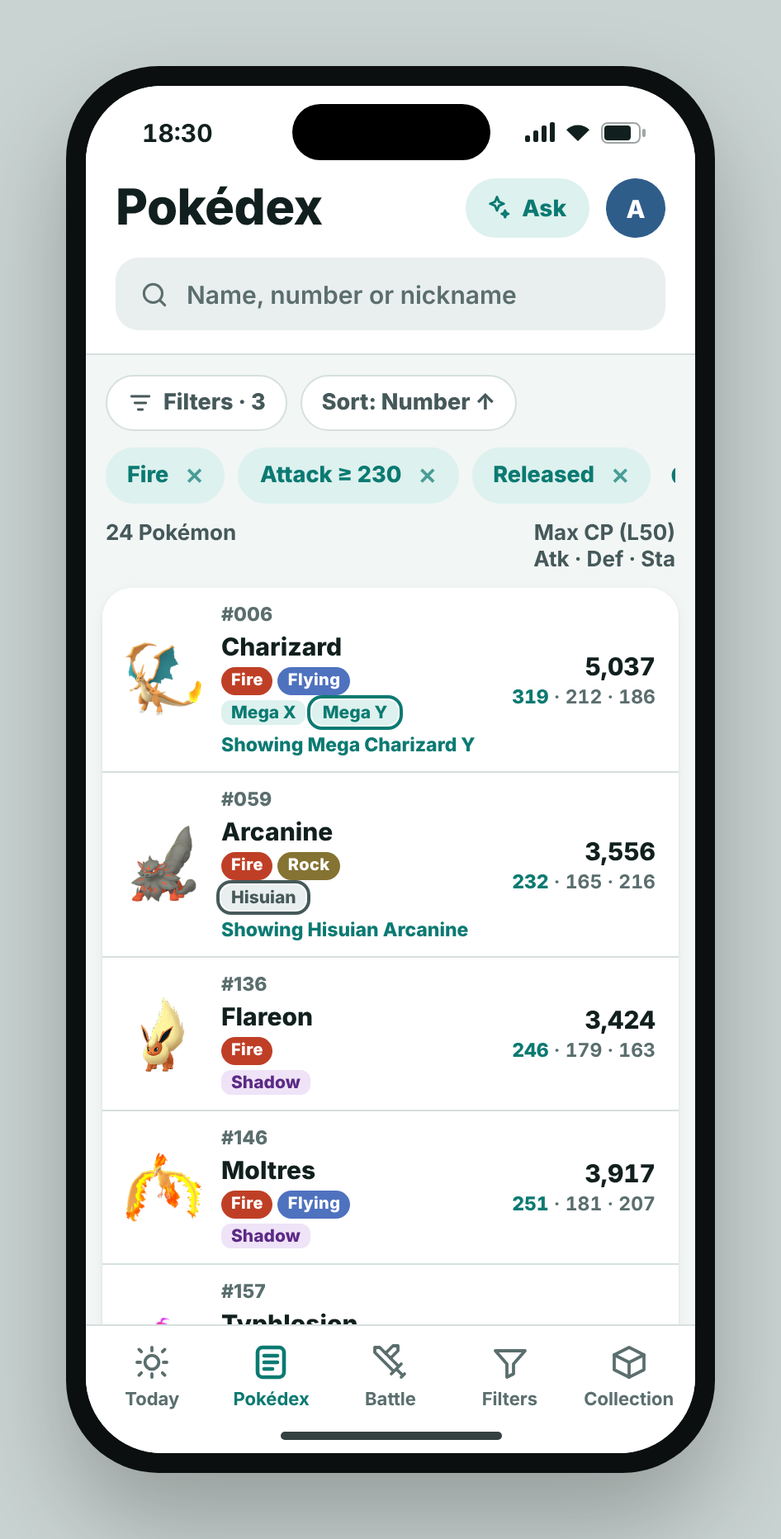
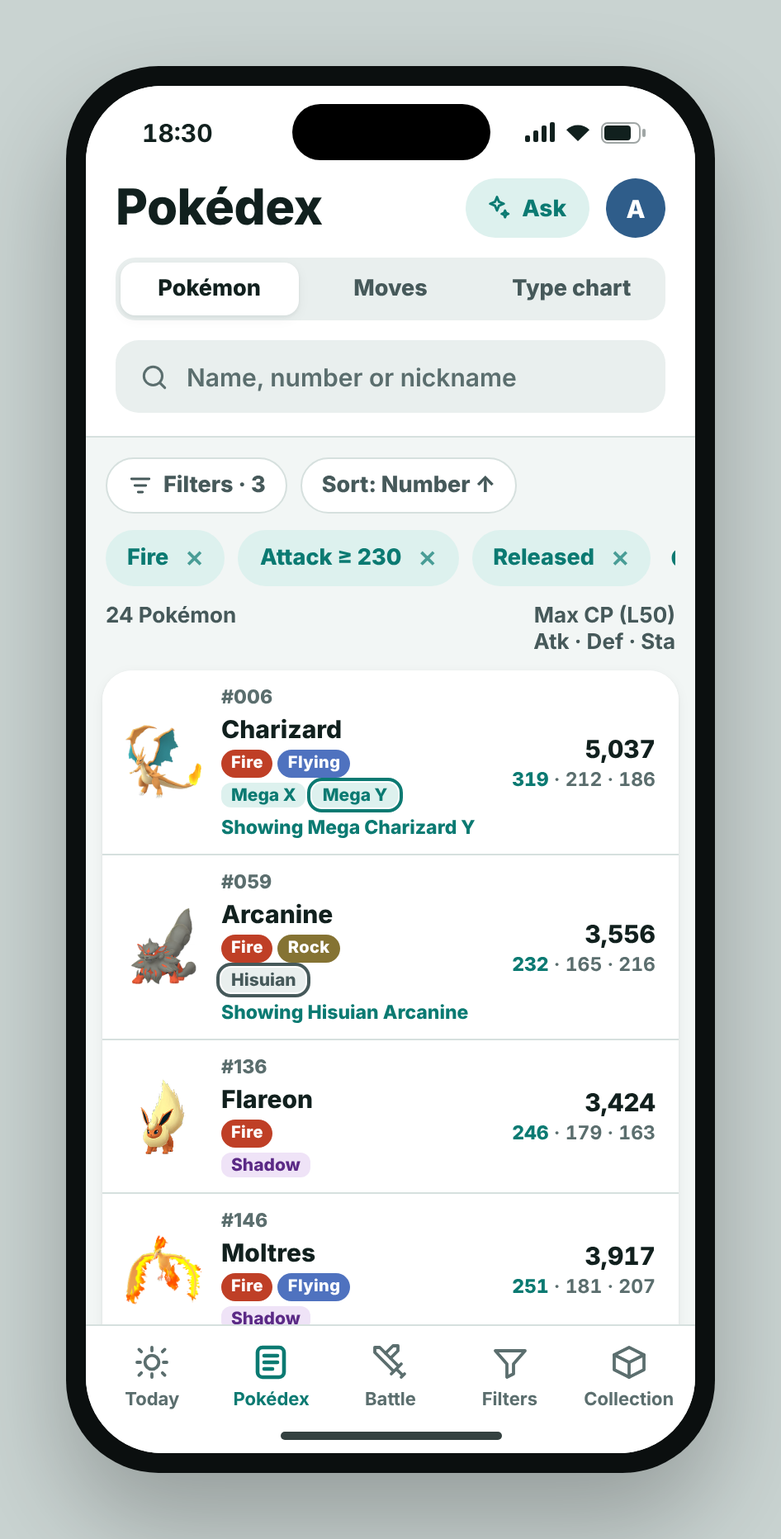
Design: B4 Move page for review; Pokédex tab switcher on B1; log B3 approval
Claude-Session: https://claude.ai/code/session_014PLsCiJiJmtsciFeh9tQXY

diff --git a/design/source/screens/B4-desktop.html b/design/source/screens/B4-desktop.html
@@ -1,0 +1,10 @@
+<!doctype html><html lang="en"><head><meta charset="utf-8"><title>B4 Move page</title><link rel="stylesheet" href="../base.css"><link rel="stylesheet" href="_b1.css"><link rel="stylesheet" href="_b4.css"></head><body><div class="desktop"><div data-sidebar="moves"></div><div class="main"><div data-topbar></div>
+<div class="content" style="max-width:1180px;display:flex;flex-direction:column;gap:18px">
+<a class="backlink">‹ Moves</a><div style="display:flex;flex-direction:column;gap:6px;margin-top:-6px"><h1 class="bigtitle">Earth Power</h1><div class="mhead" style="padding:0;background:none;border:0"><div class="meta"><span class="type ground">Ground</span>Charged move</div></div></div>
+<div style="display:grid;grid-template-columns:1fr 1fr;gap:16px"><div class="card ncard"><h3>Raids &amp; gyms</h3><div class="nums"><div><span>Power</span><b>100</b></div><div><span>Time</span><b>3.5 s</b></div><div><span>Energy</span><b>−50</b></div></div>
+<div class="ebar"><i></i><i></i><span style="margin-left:6px">2 bars</span></div></div>
+<div class="card ncard"><h3>PvP (trainer battles)</h3><div class="nums"><div><span>Power</span><b>90</b></div><div><span>Energy</span><b>−50</b></div><div><span>Turns</span><b>1</b></div></div>
+<div class="effect">Effect: <b>10% chance</b> to lower the opponent's Defense by 1</div></div></div>
+<h2 style="margin:8px 0 0;font-size:20px">Who learns it</h2><div class="card" style="overflow:hidden"><div class="grph"><b>Elite TM only</b><span>2 Pokémon</span></div><div class="note"><svg width="16" height="16" viewBox="0 0 24 24" fill="none" stroke="currentColor" stroke-width="2.2" stroke-linecap="round"><rect x="3" y="5" width="18" height="16" rx="3"/><path d="M3 10h18M8 3v4M16 3v4"/></svg><span>Free during <b>Community Day: Gible</b> — evolve Gabite Sat 7 Nov, 14:00–22:00</span></div><div class="lgrid"><div class="lr"><img class="sprite" src="../sprites/445.png" width="38" height="38" alt=""><div class="nm"><b>Garchomp</b><span class="tt"><span class="type dragon">Dragon</span><span class="type ground">Ground</span><span class="ver mega">Mega too</span></span></div><div class="atk">261<span>ATTACK</span></div></div><div class="lr"><img class="sprite" src="../sprites/330.png" width="38" height="38" alt=""><div class="nm"><b>Flygon</b><span class="tt"><span class="type ground">Ground</span><span class="type dragon">Dragon</span></span></div><div class="atk">205<span>ATTACK</span></div></div></div></div>
+<div class="card" style="overflow:hidden"><div class="grph" style="padding-bottom:12px"><b>Legacy</b><span>none</span></div></div>
+<div class="card" style="overflow:hidden"><div class="grph"><b>Can learn it</b><span>26 Pokémon · with a Charged TM</span></div><div class="lgrid"><div class="lr"><img class="sprite" src="../sprites/645_11.png" width="38" height="38" alt=""><div class="nm"><b>Landorus</b><span class="tt"><span class="type ground">Ground</span><span class="type flying">Flying</span></span></div><div class="atk">261<span>ATTACK</span></div></div><div class="lr"><img class="sprite" src="../sprites/721.png" width="38" height="38" alt=""><div class="nm"><b>Volcanion</b><span class="tt"><span class="type fire">Fire</span><span class="type water">Water</span></span></div><div class="atk">252<span>ATTACK</span></div></div><div class="lr"><img class="sprite" src="../sprites/485.png" width="38" height="38" alt=""><div class="nm"><b>Heatran</b><span class="tt"><span class="type fire">Fire</span><span class="type steel">Steel</span></span></div><div class="atk">251<span>ATTACK</span></div></div><div class="lr"><img class="sprite" src="../sprites/905_THERIAN.png" width="38" height="38" alt=""><div class="nm"><b>Enamorus (Therian)</b><span class="tt"><span class="type fairy">Fairy</span><span class="type flying">Flying</span></span></div><div class="atk">250<span>ATTACK</span></div></div><div class="lr"><img class="sprite" src="../sprites/812.png" width="38" height="38" alt=""><div class="nm"><b>Rillaboom</b><span class="tt"><span class="type grass">Grass</span></span></div><div class="atk">239<span>ATTACK</span></div></div><div class="lr"><img class="sprite" src="../sprites/623.png" width="38" height="38" alt=""><div class="nm"><b>Golurk</b><span class="tt"><span class="type ground">Ground</span><span class="type ghost">Ghost</span></span></div><div class="atk">222<span>ATTACK</span></div></div><div class="lr"><img class="sprite" src="../sprites/142.png" width="38" height="38" alt=""><div class="nm"><b>Aerodactyl</b><span class="tt"><span class="type rock">Rock</span><span class="type flying">Flying</span><span class="ver mega">Mega too</span></span></div><div class="atk">221<span>ATTACK</span></div></div><div class="lr"><img class="sprite" src="../sprites/930.png" width="38" height="38" alt=""><div class="nm"><b>Arboliva</b><span class="tt"><span class="type grass">Grass</span><span class="type normal">Normal</span></span></div><div class="atk">219<span>ATTACK</span></div></div><div class="lr"><img class="sprite" src="../sprites/034.png" width="38" height="38" alt=""><div class="nm"><b>Nidoking</b><span class="tt"><span class="type poison">Poison</span><span class="type ground">Ground</span></span></div><div class="atk">204<span>ATTACK</span></div></div><div class="lr"><img class="sprite" src="../sprites/844.png" width="38" height="38" alt=""><div class="nm"><b>Sandaconda</b><span class="tt"><span class="type ground">Ground</span></span></div><div class="atk">202<span>ATTACK</span></div></div><div class="lr"><img class="sprite" src="../sprites/450.png" width="38" height="38" alt=""><div class="nm"><b>Hippowdon</b><span class="tt"><span class="type ground">Ground</span></span></div><div class="atk">201<span>ATTACK</span></div></div><div class="lr"><img class="sprite" src="../sprites/323.png" width="38" height="38" alt=""><div class="nm"><b>Camerupt</b><span class="tt"><span class="type fire">Fire</span><span class="type ground">Ground</span><span class="ver mega">Mega too</span></span></div><div class="atk">194<span>ATTACK</span></div></div><div class="lr"><img class="sprite" src="../sprites/249.png" width="38" height="38" alt=""><div class="nm"><b>Lugia</b><span class="tt"><span class="type psychic">Psychic</span><span class="type flying">Flying</span></span></div><div class="atk">193<span>ATTACK</span></div></div><div class="lr"><img class="sprite" src="../sprites/537.png" width="38" height="38" alt=""><div class="nm"><b>Seismitoad</b><span class="tt"><span class="type water">Water</span><span class="type ground">Ground</span></span></div><div class="atk">188<span>ATTACK</span></div></div><div class="lr"><img class="sprite" src="../sprites/031.png" width="38" height="38" alt=""><div class="nm"><b>Nidoqueen</b><span class="tt"><span class="type poison">Poison</span><span class="type ground">Ground</span></span></div><div class="atk">180<span>ATTACK</span></div></div><div class="lr"><img class="sprite" src="../sprites/770.png" width="38" height="38" alt=""><div class="nm"><b>Palossand</b><span class="tt"><span class="type ghost">Ghost</span><span class="type ground">Ground</span></span></div><div class="atk">178<span>ATTACK</span></div></div><div class="lr"><img class="sprite" src="../sprites/423_11.png" width="38" height="38" alt=""><div class="nm"><b>Gastrodon</b><span class="tt"><span class="type water">Water</span><span class="type ground">Ground</span></span></div><div class="atk">169<span>ATTACK</span></div></div><div class="lr"><img class="sprite" src="../sprites/949.png" width="38" height="38" alt=""><div class="nm"><b>Toedscruel</b><span class="tt"><span class="type ground">Ground</span><span class="type grass">Grass</span></span></div><div class="atk">166<span>ATTACK</span></div></div><div class="lr"><img class="sprite" src="../sprites/344.png" width="38" height="38" alt=""><div class="nm"><b>Claydol</b><span class="tt"><span class="type ground">Ground</span><span class="type psychic">Psychic</span></span></div><div class="atk">140<span>ATTACK</span></div></div><div class="lr"><img class="sprite" src="../sprites/929.png" width="38" height="38" alt=""><div class="nm"><b>Dolliv</b><span class="tt"><span class="type grass">Grass</span><span class="type normal">Normal</span></span></div><div class="atk">137<span>ATTACK</span></div></div><div class="lr"><img class="sprite" src="../sprites/536.png" width="38" height="38" alt=""><div class="nm"><b>Palpitoad</b><span class="tt"><span class="type water">Water</span><span class="type ground">Ground</span></span></div><div class="atk">128<span>ATTACK</span></div></div><div class="lr"><img class="sprite" src="../sprites/769.png" width="38" height="38" alt=""><div class="nm"><b>Sandygast</b><span class="tt"><span class="type ghost">Ghost</span><span class="type ground">Ground</span></span></div><div class="atk">120<span>ATTACK</span></div></div><div class="lr"><img class="sprite" src="../sprites/843.png" width="38" height="38" alt=""><div class="nm"><b>Silicobra</b><span class="tt"><span class="type ground">Ground</span></span></div><div class="atk">103<span>ATTACK</span></div></div><div class="lr"><img class="sprite" src="../sprites/928.png" width="38" height="38" alt=""><div class="nm"><b>Smoliv</b><span class="tt"><span class="type grass">Grass</span><span class="type normal">Normal</span></span></div><div class="atk">100<span>ATTACK</span></div></div><div class="lr"><img class="sprite" src="../sprites/948.png" width="38" height="38" alt=""><div class="nm"><b>Toedscool</b><span class="tt"><span class="type ground">Ground</span><span class="type grass">Grass</span></span></div><div class="atk">97<span>ATTACK</span></div></div><div class="lr"><img class="sprite" src="../sprites/235.png" width="38" height="38" alt=""><div class="nm"><b>Smeargle</b><span class="tt"><span class="type normal">Normal</span></span></div><div class="atk">40<span>ATTACK</span></div></div></div></div></div></div></div><script src="../chrome.js"></script></body></html>

diff --git a/design/source/screens/B4-phone.html b/design/source/screens/B4-phone.html
@@ -1,0 +1,9 @@
+<!doctype html><html lang="en"><head><meta charset="utf-8"><title>B4 Move page</title><link rel="stylesheet" href="../base.css"><link rel="stylesheet" href="_b1.css"><link rel="stylesheet" href="_b4.css"></head><body><div class="stage"><div class="device"><div class="screen"><div data-statusbar></div><div data-dethead="Moves|"></div><div class="mhead"><h1>Earth Power</h1><div class="meta"><span class="type ground">Ground</span>Charged move</div></div>
+<div class="scroll"><div style="padding:14px 12px 20px;display:flex;flex-direction:column;gap:12px"><div class="card ncard"><h3>Raids &amp; gyms</h3><div class="nums"><div><span>Power</span><b>100</b></div><div><span>Time</span><b>3.5 s</b></div><div><span>Energy</span><b>−50</b></div></div>
+<div class="ebar"><i></i><i></i><span style="margin-left:6px">2 bars</span></div></div>
+<div class="card ncard"><h3>PvP (trainer battles)</h3><div class="nums"><div><span>Power</span><b>90</b></div><div><span>Energy</span><b>−50</b></div><div><span>Turns</span><b>1</b></div></div>
+<div class="effect">Effect: <b>10% chance</b> to lower the opponent's Defense by 1</div></div>
+<h2 style="margin:10px 4px 0;font-size:18px">Who learns it</h2><div class="card" style="overflow:hidden"><div class="grph"><b>Elite TM only</b><span>2 Pokémon</span></div><div class="note"><svg width="16" height="16" viewBox="0 0 24 24" fill="none" stroke="currentColor" stroke-width="2.2" stroke-linecap="round"><rect x="3" y="5" width="18" height="16" rx="3"/><path d="M3 10h18M8 3v4M16 3v4"/></svg><span>Free during <b>Community Day: Gible</b> — evolve Gabite Sat 7 Nov, 14:00–22:00</span></div><div class="lr"><img class="sprite" src="../sprites/445.png" width="38" height="38" alt=""><div class="nm"><b>Garchomp</b><span class="tt"><span class="type dragon">Dragon</span><span class="type ground">Ground</span><span class="ver mega">Mega too</span></span></div><div class="atk">261<span>ATTACK</span></div></div><div class="lr"><img class="sprite" src="../sprites/330.png" width="38" height="38" alt=""><div class="nm"><b>Flygon</b><span class="tt"><span class="type ground">Ground</span><span class="type dragon">Dragon</span></span></div><div class="atk">205<span>ATTACK</span></div></div></div>
+<div class="card" style="overflow:hidden"><div class="grph" style="padding-bottom:12px"><b>Legacy</b><span>none</span></div></div>
+<div class="card" style="overflow:hidden"><div class="grph"><b>Can learn it</b><span>26 Pokémon · with a Charged TM</span></div><div class="lr"><img class="sprite" src="../sprites/645_11.png" width="38" height="38" alt=""><div class="nm"><b>Landorus</b><span class="tt"><span class="type ground">Ground</span><span class="type flying">Flying</span></span></div><div class="atk">261<span>ATTACK</span></div></div><div class="lr"><img class="sprite" src="../sprites/721.png" width="38" height="38" alt=""><div class="nm"><b>Volcanion</b><span class="tt"><span class="type fire">Fire</span><span class="type water">Water</span></span></div><div class="atk">252<span>ATTACK</span></div></div><div class="lr"><img class="sprite" src="../sprites/485.png" width="38" height="38" alt=""><div class="nm"><b>Heatran</b><span class="tt"><span class="type fire">Fire</span><span class="type steel">Steel</span></span></div><div class="atk">251<span>ATTACK</span></div></div><div class="lr"><img class="sprite" src="../sprites/905_THERIAN.png" width="38" height="38" alt=""><div class="nm"><b>Enamorus (Therian)</b><span class="tt"><span class="type fairy">Fairy</span><span class="type flying">Flying</span></span></div><div class="atk">250<span>ATTACK</span></div></div><div class="lr"><img class="sprite" src="../sprites/812.png" width="38" height="38" alt=""><div class="nm"><b>Rillaboom</b><span class="tt"><span class="type grass">Grass</span></span></div><div class="atk">239<span>ATTACK</span></div></div><div class="lr"><img class="sprite" src="../sprites/623.png" width="38" height="38" alt=""><div class="nm"><b>Golurk</b><span class="tt"><span class="type ground">Ground</span><span class="type ghost">Ghost</span></span></div><div class="atk">222<span>ATTACK</span></div></div><div class="lr"><img class="sprite" src="../sprites/142.png" width="38" height="38" alt=""><div class="nm"><b>Aerodactyl</b><span class="tt"><span class="type rock">Rock</span><span class="type flying">Flying</span><span class="ver mega">Mega too</span></span></div><div class="atk">221<span>ATTACK</span></div></div><div class="lr"><img class="sprite" src="../sprites/930.png" width="38" height="38" alt=""><div class="nm"><b>Arboliva</b><span class="tt"><span class="type grass">Grass</span><span class="type normal">Normal</span></span></div><div class="atk">219<span>ATTACK</span></div></div><div style="border-top:1px solid var(--line);padding:12px 16px;text-align:center;font-weight:800;color:var(--accent);font-size:14.5px">Show all 26 ›</div></div></div></div>
+<div data-tabbar="pokedex"></div></div></div></div><script src="../chrome.js"></script></body></html>

diff --git a/design/source/screens/_b4.css b/design/source/screens/_b4.css
@@ -1,0 +1,28 @@
+.mhead { background: var(--surface); padding: 6px 18px 16px; border-bottom: 1px solid var(--line); display: flex; flex-direction: column; gap: 6px; }
+.mhead h1 { margin: 0; font-size: 28px; font-weight: 800; }
+.mhead .meta { display: flex; gap: 8px; align-items: center; font-size: 13.5px; font-weight: 700; color: var(--text-2); }
+.mhead .type { height: 24px; font-size: 12.5px; padding: 0 10px; }
+.nums { display: grid; grid-template-columns: repeat(3, minmax(0, 1fr)); gap: 8px; }
+.nums div { background: var(--surface-2); border-radius: 12px; padding: 8px 10px; display: flex; flex-direction: column; }
+.nums span { font-size: 11.5px; color: var(--text-2); font-weight: 800; }
+.nums b { font-size: 19px; font-variant-numeric: tabular-nums; }
+.ncard { padding: 14px 16px; display: flex; flex-direction: column; gap: 10px; }
+.ncard h3 { margin: 0; font-size: 15px; font-weight: 800; }
+.ebar { display: flex; gap: 4px; align-items: center; font-size: 12.5px; font-weight: 700; color: var(--text-2); }
+.ebar i { width: 40px; height: 8px; border-radius: 4px; background: var(--t-ground); }
+.effect { font-size: 13px; font-weight: 700; color: var(--text-2); }
+.effect b { color: var(--accent); }
+.grph { display: flex; align-items: baseline; gap: 8px; padding: 12px 16px 8px; }
+.grph b { font-size: 15px; }
+.grph span { font-size: 12.5px; color: var(--text-3); font-weight: 700; }
+.lr { display: flex; align-items: center; gap: 10px; padding: 8px 16px; border-top: 1px solid var(--line); }
+.lr .nm { flex: 1; min-width: 0; display: flex; flex-direction: column; gap: 3px; }
+.lr .nm b { font-size: 14.5px; white-space: nowrap; overflow: hidden; text-overflow: ellipsis; }
+.lr .tt { display: flex; gap: 3px; align-items: center; }
+.lr .tt .type { height: 17px; font-size: 10px; padding: 0 6px; }
+.lr .atk { text-align: right; font-weight: 800; font-size: 15px; font-variant-numeric: tabular-nums; display: flex; flex-direction: column; }
+.lr .atk span { font-size: 10.5px; color: var(--text-3); font-weight: 800; }
+.note { margin: 0 16px 12px; padding: 9px 12px; border-radius: 12px; background: var(--accent-soft); color: var(--accent); font-size: 13px; font-weight: 700; display: flex; gap: 8px; align-items: center; }
+.empty { padding: 4px 16px 14px; font-size: 13.5px; color: var(--text-2); font-weight: 600; }
+.lgrid { display: grid; grid-template-columns: repeat(3, minmax(0, 1fr)); column-gap: 0; }
+.lgrid .lr { border-top: 1px solid var(--line); }

diff --git a/design/source/screens/B1f-phone.html b/design/source/screens/B1f-phone.html
@@ -1,4 +1,5 @@
 <!doctype html><html lang="en"><head><meta charset="utf-8"><title>B1 Pokédex — filters</title><link rel="stylesheet" href="../base.css"><link rel="stylesheet" href="_b1.css"></head><body><div class="stage"><div class="device"><div class="screen"><div data-statusbar></div><header class="apphead"><div class="titlerow"><h1 class="bigtitle">Pokédex</h1><span data-ask></span><div class="avatar">A</div></div>
+<div class="seg"><span class="on">Pokémon</span><span>Moves</span><span>Type chart</span></div>
 <div class="searchbox">SEARCHICON Name, number or nickname</div></header>
 <div class="scroll"><div style="padding:12px 12px 8px;display:flex;flex-direction:column;gap:10px"><div class="toolbar"><span class="tbtn"><svg width="16" height="16" viewBox="0 0 24 24" fill="none" stroke="currentColor" stroke-width="2.2" stroke-linecap="round"><path d="M4 6h16M7 12h10M10 18h4"/></svg>Filters</span><span class="tbtn">Sort: Number ↑</span><span class="tbtn on">Released</span><span class="tbtn">Has Mega</span><span class="tbtn">Has Shadow</span></div><div style="display:flex;justify-content:space-between;align-items:baseline"><span class="count">1,025 Pokémon</span><span class="count" style="text-align:right;line-height:1.25">Max CP (L50)<br>Atk · Def · Sta</span></div></div>
 <div class="card" style="margin:0 10px 16px;overflow:hidden"><div class="drow"><img class="sprite" src="../sprites/001.png" width="46" height="46" alt=""><div class="nm"><span class="no">#001</span><b>Bulbasaur</b><span class="types"><span class="type grass">Grass</span><span class="type poison">Poison</span></span><span class="vers"><span class="ver shadow">Shadow</span><span class="ver dynamax">Dynamax</span></span></div>

diff --git a/design/source/screens/B1-phone.html b/design/source/screens/B1-phone.html
@@ -1,4 +1,5 @@
 <!doctype html><html lang="en"><head><meta charset="utf-8"><title>B1 Pokédex</title><link rel="stylesheet" href="../base.css"><link rel="stylesheet" href="_b1.css"></head><body><div class="stage"><div class="device"><div class="screen"><div data-statusbar></div><header class="apphead"><div class="titlerow"><h1 class="bigtitle">Pokédex</h1><span data-ask></span><div class="avatar">A</div></div>
+<div class="seg"><span class="on">Pokémon</span><span>Moves</span><span>Type chart</span></div>
 <div class="searchbox">SEARCHICON Name, number or nickname</div></header>
 <div class="scroll"><div style="padding:12px 12px 8px;display:flex;flex-direction:column;gap:10px"><div class="toolbar"><span class="tbtn"><svg width="16" height="16" viewBox="0 0 24 24" fill="none" stroke="currentColor" stroke-width="2.2" stroke-linecap="round"><path d="M4 6h16M7 12h10M10 18h4"/></svg>Filters</span><span class="tbtn">Sort: Number ↑</span><span class="tbtn on">Released</span><span class="tbtn">Has Mega</span><span class="tbtn">Has Shadow</span></div><div style="display:flex;justify-content:space-between;align-items:baseline"><span class="count">1,025 Pokémon</span><span class="count" style="text-align:right;line-height:1.25">Max CP (L50)<br>Atk · Def · Sta</span></div></div>
 <div class="card" style="margin:0 10px 16px;overflow:hidden"><div class="drow"><img class="sprite" src="../sprites/001.png" width="46" height="46" alt=""><div class="nm"><span class="no">#001</span><b>Bulbasaur</b><span class="types"><span class="type grass">Grass</span><span class="type poison">Poison</span></span><span class="vers"><span class="ver shadow">Shadow</span><span class="ver dynamax">Dynamax</span></span></div>

diff --git a/design/source/screens/B1h-phone.html b/design/source/screens/B1h-phone.html
@@ -1,4 +1,5 @@
 <!doctype html><html lang="en"><head><meta charset="utf-8"><title>B1 Pokédex</title><link rel="stylesheet" href="../base.css"><link rel="stylesheet" href="_b1.css"></head><body><div class="stage"><div class="device"><div class="screen"><div data-statusbar></div><header class="apphead"><div class="titlerow"><h1 class="bigtitle">Pokédex</h1><span data-ask></span><div class="avatar">A</div></div>
+<div class="seg"><span class="on">Pokémon</span><span>Moves</span><span>Type chart</span></div>
 <div class="searchbox">SEARCHICON Name, number or nickname</div></header>
 <div class="scroll"><div style="padding:12px 12px 8px;display:flex;flex-direction:column;gap:10px"><div class="toolbar"><span class="tbtn"><svg width="16" height="16" viewBox="0 0 24 24" fill="none" stroke="currentColor" stroke-width="2.2" stroke-linecap="round"><path d="M4 6h16M7 12h10M10 18h4"/></svg>Filters</span><span class="tbtn">Sort: Number ↑</span><span class="tbtn on">Released</span><span class="tbtn">Has Mega</span><span class="tbtn">Has Shadow</span></div><div style="display:flex;justify-content:space-between;align-items:baseline"><span class="count">1,025 Pokémon</span><span class="count" style="text-align:right;line-height:1.25">Max CP (L50)<br>Atk · Def · Sta</span></div></div>
 <div class="card" style="margin:0 10px 16px;overflow:hidden"><div class="drow"><img class="sprite" src="../sprites/004.png" width="46" height="46" alt=""><div class="nm"><span class="no">#004</span><b>Charmander</b><span class="types"><span class="type fire">Fire</span></span><span class="vers"><span class="ver shadow">Shadow</span><span class="ver dynamax">Dynamax</span></span></div>

diff --git a/design/source/screens/B1x-phone.html b/design/source/screens/B1x-phone.html
@@ -1,4 +1,5 @@
 <!doctype html><html lang="en"><head><meta charset="utf-8"><title>B1 Pokédex — filtered</title><link rel="stylesheet" href="../base.css"><link rel="stylesheet" href="_b1.css"></head><body><div class="stage"><div class="device"><div class="screen"><div data-statusbar></div><header class="apphead"><div class="titlerow"><h1 class="bigtitle">Pokédex</h1><span data-ask></span><div class="avatar">A</div></div>
+<div class="seg"><span class="on">Pokémon</span><span>Moves</span><span>Type chart</span></div>
 <div class="searchbox">SEARCHICON Name, number or nickname</div></header>
 <div class="scroll"><div style="padding:12px 12px 8px;display:flex;flex-direction:column;gap:10px"><div class="toolbar"><span class="tbtn"><svg width="16" height="16" viewBox="0 0 24 24" fill="none" stroke="currentColor" stroke-width="2.2" stroke-linecap="round"><path d="M4 6h16M7 12h10M10 18h4"/></svg>Filters · 3</span><span class="tbtn">Sort: Number ↑</span></div><div class="toolbar"><span class="tbtn on">Fire<span style="opacity:.7;margin-left:4px">✕</span></span><span class="tbtn on">Attack ≥ 230<span style="opacity:.7;margin-left:4px">✕</span></span><span class="tbtn on">Released<span style="opacity:.7;margin-left:4px">✕</span></span><a style="font-weight:800;font-size:14px;margin-left:4px">Clear</a></div>
 <div style="display:flex;justify-content:space-between;align-items:baseline"><span class="count">24 Pokémon</span><span class="count" style="text-align:right;line-height:1.25">Max CP (L50)<br>Atk · Def · Sta</span></div></div>

diff --git a/design/source/base.css b/design/source/base.css
@@ -96,3 +96,9 @@ kbd { font-family: var(--mono); font-size: 11px; padding: 2px 6px; border-radius
 .backlink { color: var(--accent); font-weight: 800; font-size: 15px; }
 .type.normal { background: var(--t-normal); } .type.fighting { background: var(--t-fighting); } .type.psychic { background: var(--t-psychic); }
 .type.bug { background: var(--t-bug); } .type.rock { background: var(--t-rock); } .type.steel { background: var(--t-steel); } .type.fairy { background: var(--t-fairy); }
+
+/* ---------- segmented switch ---------- */
+.seg { display: flex; background: var(--surface-2); border-radius: 12px; padding: 3px; gap: 2px; }
+.seg span { flex: 1; text-align: center; height: 32px; display: flex; align-items: center; justify-content: center; border-radius: 9px; font-weight: 800; font-size: 13.5px; color: var(--text-2); white-space: nowrap; padding: 0 10px; }
+.seg span.on { background: var(--surface); color: var(--text); box-shadow: var(--shadow); }
+.seg span i { font-style: normal; color: var(--text-3); font-weight: 700; margin-left: 4px; }

diff --git a/design/source/screens/_b3.css b/design/source/screens/_b3.css
@@ -1,7 +1,3 @@
-.seg { display: flex; background: var(--surface-2); border-radius: 12px; padding: 3px; gap: 2px; }
-.seg span { flex: 1; text-align: center; height: 32px; display: flex; align-items: center; justify-content: center; border-radius: 9px; font-weight: 800; font-size: 13.5px; color: var(--text-2); white-space: nowrap; padding: 0 10px; }
-.seg span.on { background: var(--surface); color: var(--text); box-shadow: var(--shadow); }
-.seg span i { font-style: normal; color: var(--text-3); font-weight: 700; margin-left: 4px; }
 .mlist .mh, .mlist .mr { display: grid; grid-template-columns: minmax(0, 1fr) 58px 46px 50px; gap: 6px; align-items: center; padding: 0 14px; }
 .mlist.pvp .mh, .mlist.pvp .mr { grid-template-columns: minmax(0, 1fr) 50px 46px 72px; }
 .mlist .mh { font-size: 11.5px; font-weight: 800; color: var(--text-3); padding-top: 10px; padding-bottom: 8px; text-align: right; }

diff --git a/design/source/screens/gen_b4.py b/design/source/screens/gen_b4.py
@@ -1,0 +1,50 @@
+"""Generates B4 Move page (Earth Power), phone + desktop."""
+import pathlib
+HERE = pathlib.Path(__file__).parent
+# sprite, name, types, attack, has Mega that also learns it
+ELITE = [("445", "Garchomp", ["dragon", "ground"], 261, True), ("330", "Flygon", ["ground", "dragon"], 205, False)]
+NORMAL = [("645_11", "Landorus", ["ground", "flying"], 261, False), ("323", "Camerupt", ["fire", "ground"], 194, True),
+          ("721", "Volcanion", ["fire", "water"], 252, False), ("485", "Heatran", ["fire", "steel"], 251, False),
+          ("905_THERIAN", "Enamorus (Therian)", ["fairy", "flying"], 250, False), ("812", "Rillaboom", ["grass"], 239, False),
+          ("623", "Golurk", ["ground", "ghost"], 222, False), ("142", "Aerodactyl", ["rock", "flying"], 221, True),
+          ("930", "Arboliva", ["grass", "normal"], 219, False), ("034", "Nidoking", ["poison", "ground"], 204, False),
+          ("844", "Sandaconda", ["ground"], 202, False), ("450", "Hippowdon", ["ground"], 201, False),
+          ("249", "Lugia", ["psychic", "flying"], 193, False), ("537", "Seismitoad", ["water", "ground"], 188, False),
+          ("031", "Nidoqueen", ["poison", "ground"], 180, False), ("770", "Palossand", ["ghost", "ground"], 178, False),
+          ("423_11", "Gastrodon", ["water", "ground"], 169, False), ("949", "Toedscruel", ["ground", "grass"], 166, False),
+          ("344", "Claydol", ["ground", "psychic"], 140, False), ("929", "Dolliv", ["grass", "normal"], 137, False),
+          ("536", "Palpitoad", ["water", "ground"], 128, False), ("769", "Sandygast", ["ghost", "ground"], 120, False),
+          ("843", "Silicobra", ["ground"], 103, False), ("928", "Smoliv", ["grass", "normal"], 100, False),
+          ("948", "Toedscool", ["ground", "grass"], 97, False), ("235", "Smeargle", ["normal"], 40, False)]
+NORMAL.sort(key=lambda r: -r[3])
+T = lambda ts: ''.join(f'<span class="type {t}">{t.capitalize()}</span>' for t in ts)
+def lr(r):
+    sp, n, ts, a, mega = r
+    m = '<span class="ver mega">Mega too</span>' if mega else ''
+    return f'<div class="lr"><img class="sprite" src="../sprites/{sp}.png" width="38" height="38" alt=""><div class="nm"><b>{n}</b><span class="tt">{T(ts)}{m}</span></div><div class="atk">{a}<span>ATTACK</span></div></div>'
+CAL = '<svg width="16" height="16" viewBox="0 0 24 24" fill="none" stroke="currentColor" stroke-width="2.2" stroke-linecap="round"><rect x="3" y="5" width="18" height="16" rx="3"/><path d="M3 10h18M8 3v4M16 3v4"/></svg>'
+NOTE = f'<div class="note">{CAL}<span>Free during <b>Community Day: Gible</b> — evolve Gabite Sat 7 Nov, 14:00–22:00</span></div>'
+MORE = '<div style="border-top:1px solid var(--line);padding:12px 16px;text-align:center;font-weight:800;color:var(--accent);font-size:14.5px">Show all 26 ›</div>'
+def nums():
+    return '''<div class="card ncard"><h3>Raids &amp; gyms</h3><div class="nums"><div><span>Power</span><b>100</b></div><div><span>Time</span><b>3.5 s</b></div><div><span>Energy</span><b>−50</b></div></div>
+<div class="ebar"><i></i><i></i><span style="margin-left:6px">2 bars</span></div></div>
+<div class="card ncard"><h3>PvP (trainer battles)</h3><div class="nums"><div><span>Power</span><b>90</b></div><div><span>Energy</span><b>−50</b></div><div><span>Turns</span><b>1</b></div></div>
+<div class="effect">Effect: <b>10% chance</b> to lower the opponent's Defense by 1</div></div>'''
+def groups(grid=False, limit=None):
+    wrap = (lambda rows: f'<div class="lgrid">{rows}</div>') if grid else (lambda rows: rows)
+    return f'''<div class="card" style="overflow:hidden"><div class="grph"><b>Elite TM only</b><span>2 Pokémon</span></div>{NOTE}{wrap(''.join(lr(r) for r in ELITE))}</div>
+<div class="card" style="overflow:hidden"><div class="grph" style="padding-bottom:12px"><b>Legacy</b><span>none</span></div></div>
+<div class="card" style="overflow:hidden"><div class="grph"><b>Can learn it</b><span>26 Pokémon · with a Charged TM</span></div>{wrap(''.join(lr(r) for r in NORMAL[:limit]))}{MORE if limit else ''}</div>'''
+head = '<!doctype html><html lang="en"><head><meta charset="utf-8"><title>B4 Move page</title><link rel="stylesheet" href="../base.css"><link rel="stylesheet" href="_b1.css"><link rel="stylesheet" href="_b4.css"></head><body>'
+mhead = f'<div class="mhead"><h1>Earth Power</h1><div class="meta"><span class="type ground">Ground</span>Charged move</div></div>'
+phone = head + f'''<div class="stage"><div class="device"><div class="screen"><div data-statusbar></div><div data-dethead="Moves|"></div>{mhead}
+<div class="scroll"><div style="padding:14px 12px 20px;display:flex;flex-direction:column;gap:12px">{nums()}
+<h2 style="margin:10px 4px 0;font-size:18px">Who learns it</h2>{groups(limit=8)}</div></div>
+<div data-tabbar="pokedex"></div></div></div></div><script src="../chrome.js"></script></body></html>'''
+desk = head + f'''<div class="desktop"><div data-sidebar="moves"></div><div class="main"><div data-topbar></div>
+<div class="content" style="max-width:1180px;display:flex;flex-direction:column;gap:18px">
+<a class="backlink">‹ Moves</a><div style="display:flex;flex-direction:column;gap:6px;margin-top:-6px"><h1 class="bigtitle">Earth Power</h1><div class="mhead" style="padding:0;background:none;border:0"><div class="meta"><span class="type ground">Ground</span>Charged move</div></div></div>
+<div style="display:grid;grid-template-columns:1fr 1fr;gap:16px">{nums()}</div>
+<h2 style="margin:8px 0 0;font-size:20px">Who learns it</h2>{groups(True)}</div></div></div><script src="../chrome.js"></script></body></html>'''
+(HERE / 'B4-phone.html').write_text(phone)
+(HERE / 'B4-desktop.html').write_text(desk)

diff --git a/design/source/screens/gen_b1.py b/design/source/screens/gen_b1.py
@@ -38,6 +38,7 @@ FIL = '<svg width="16" height="16" viewBox="0 0 24 24" fill="none" stroke="curre
 toolbar = f'<div class="toolbar"><span class="tbtn">{FIL}Filters</span><span class="tbtn">Sort: Number ↑</span><span class="tbtn on">Released</span><span class="tbtn">Has Mega</span><span class="tbtn">Has Shadow</span></div>'
 head = lambda t: f'<!doctype html><html lang="en"><head><meta charset="utf-8"><title>{t}</title><link rel="stylesheet" href="../base.css"><link rel="stylesheet" href="_b1.css"></head><body>'
 phead = '''<header class="apphead"><div class="titlerow"><h1 class="bigtitle">Pokédex</h1><span data-ask></span><div class="avatar">A</div></div>
+<div class="seg"><span class="on">Pokémon</span><span>Moves</span><span>Type chart</span></div>
 <div class="searchbox">SEARCHICON Name, number or nickname</div></header>'''
 script = '<script src="../chrome.js"></script><script>document.body.innerHTML=document.body.innerHTML.replaceAll("SEARCHICON",icon("search",19));</script>'
 def listbody_src(rows=ROWS): return f'''<div style="padding:12px 12px 8px;display:flex;flex-direction:column;gap:10px">{toolbar}<div style="display:flex;justify-content:space-between;align-items:baseline"><span class="count">1,025 Pokémon</span><span class="count" style="text-align:right;line-height:1.25">Max CP (L50)<br>Atk · Def · Sta</span></div></div>

diff --git a/CLAUDE.md b/CLAUDE.md
@@ -148,6 +148,7 @@ Earlier product work (feature list F01–F25 with priorities, UI choices, first 
 | 2026-10-27 | All commits authored by the owner's GitHub account (history rewritten); Claude's involvement shown by the Co-Authored-By trailer. |
 | 2026-10-27 | Pokémon page (B2) on the **phone uses tabs** (Overview · Moves · IVs · Get it · Versions), not one long page; desktop keeps everything on one page in two columns. |
 | 2026-10-27 | **B2 Pokémon page approved** (type-tinted header, version switcher, phone tabs Overview · Moves · IVs · Get it · Versions; desktop two columns). |
+| 2026-10-28 | **B3 Moves list approved** (Fast/Charged switch, type filter, sort; phone Raids/PvP number switch, desktop both side by side; PvP effects shown). The phone Pokédex tab gets a **Pokémon · Moves · Type chart** switcher (B1 updated). |
 
 ## Open decisions
 
